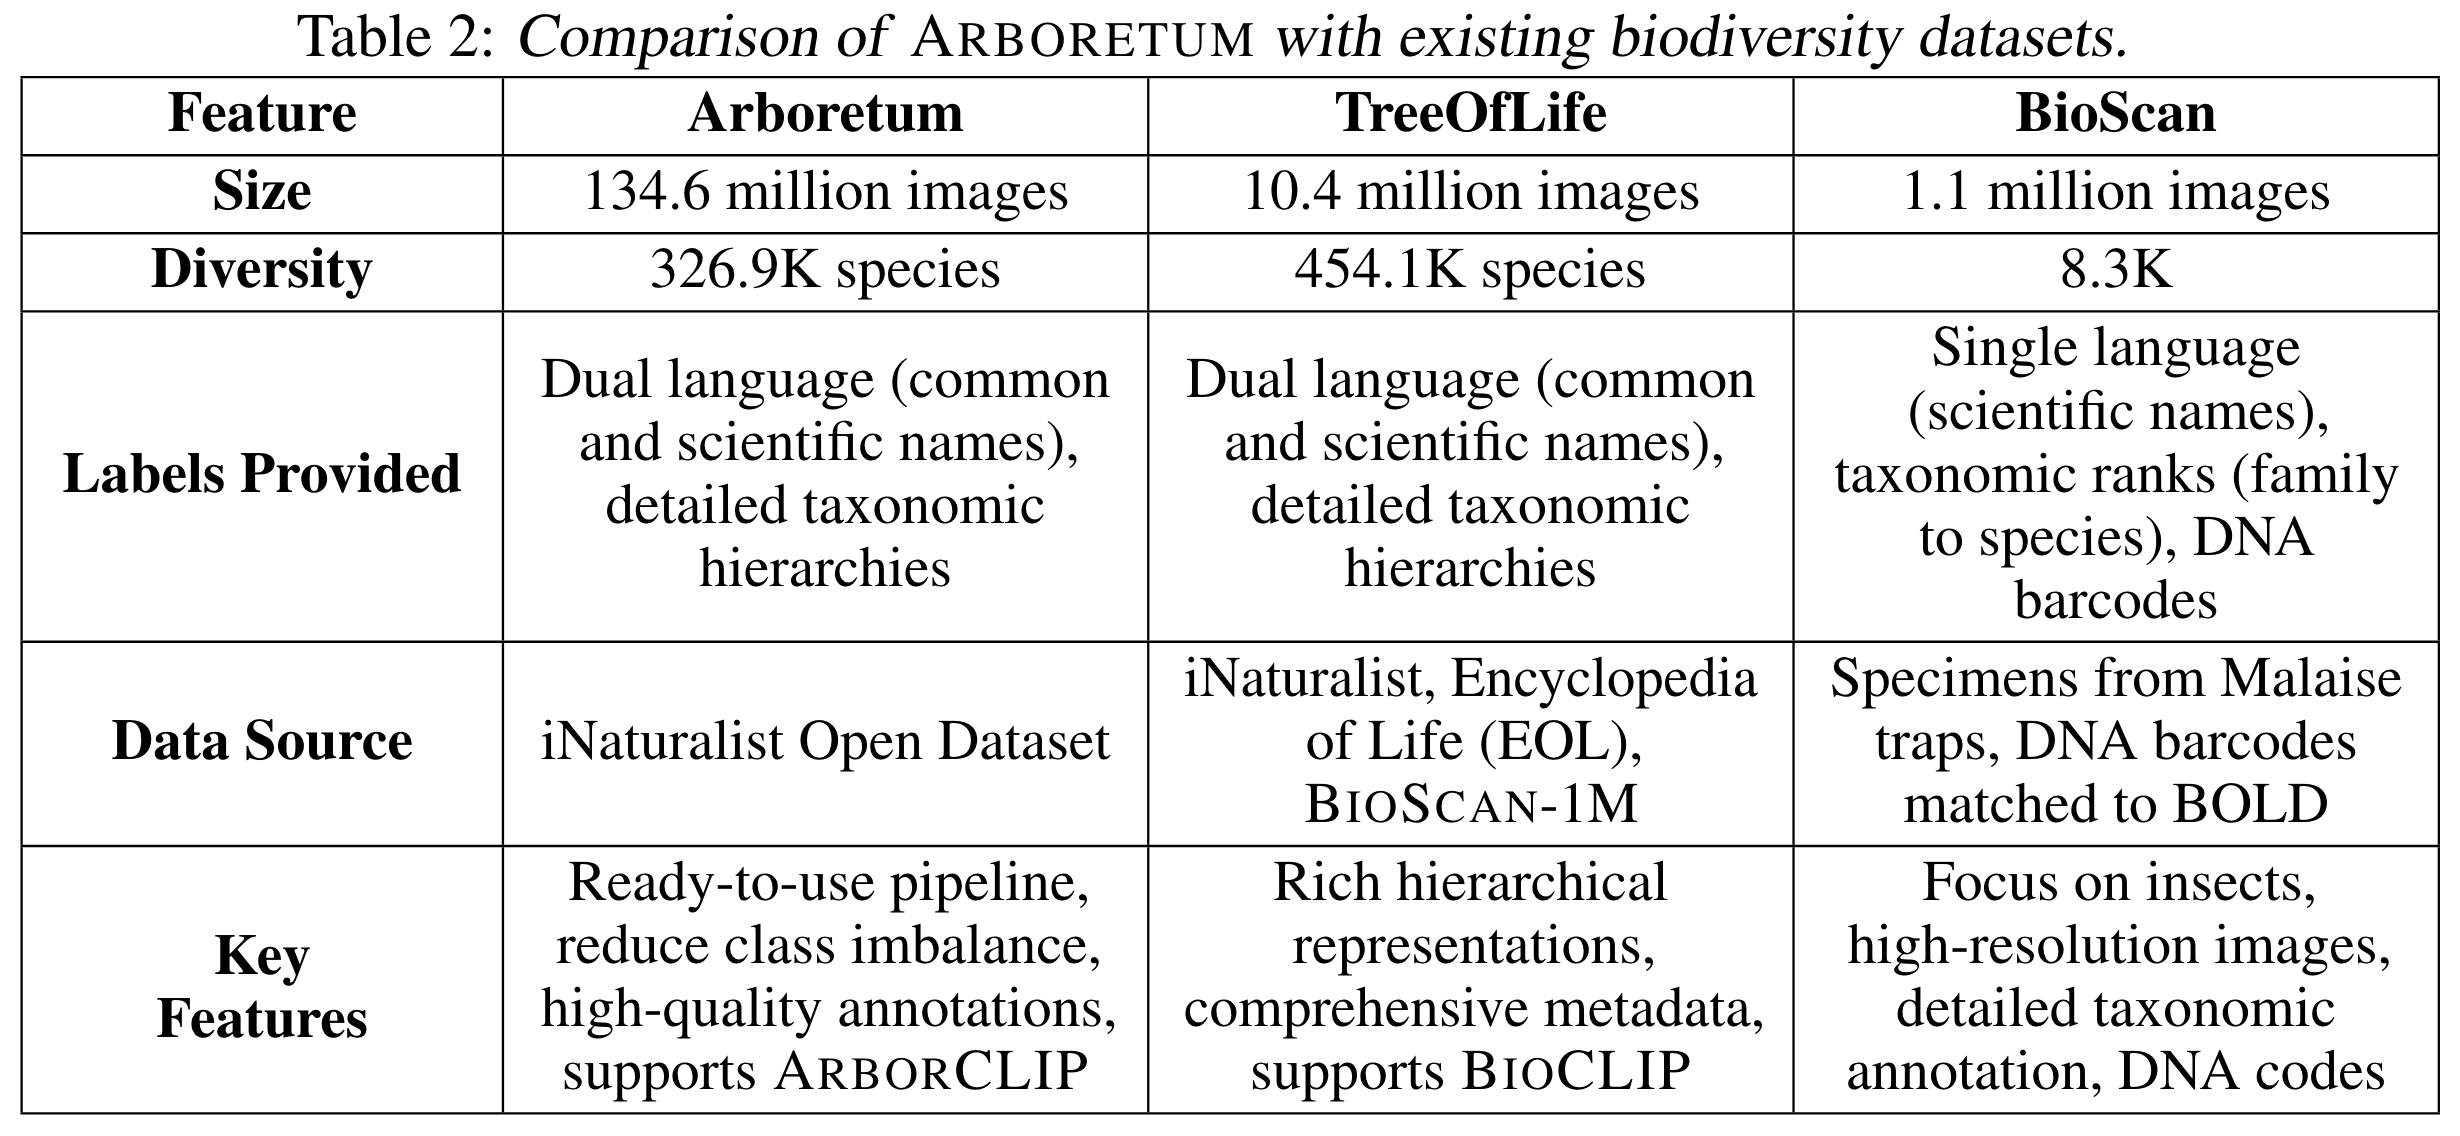
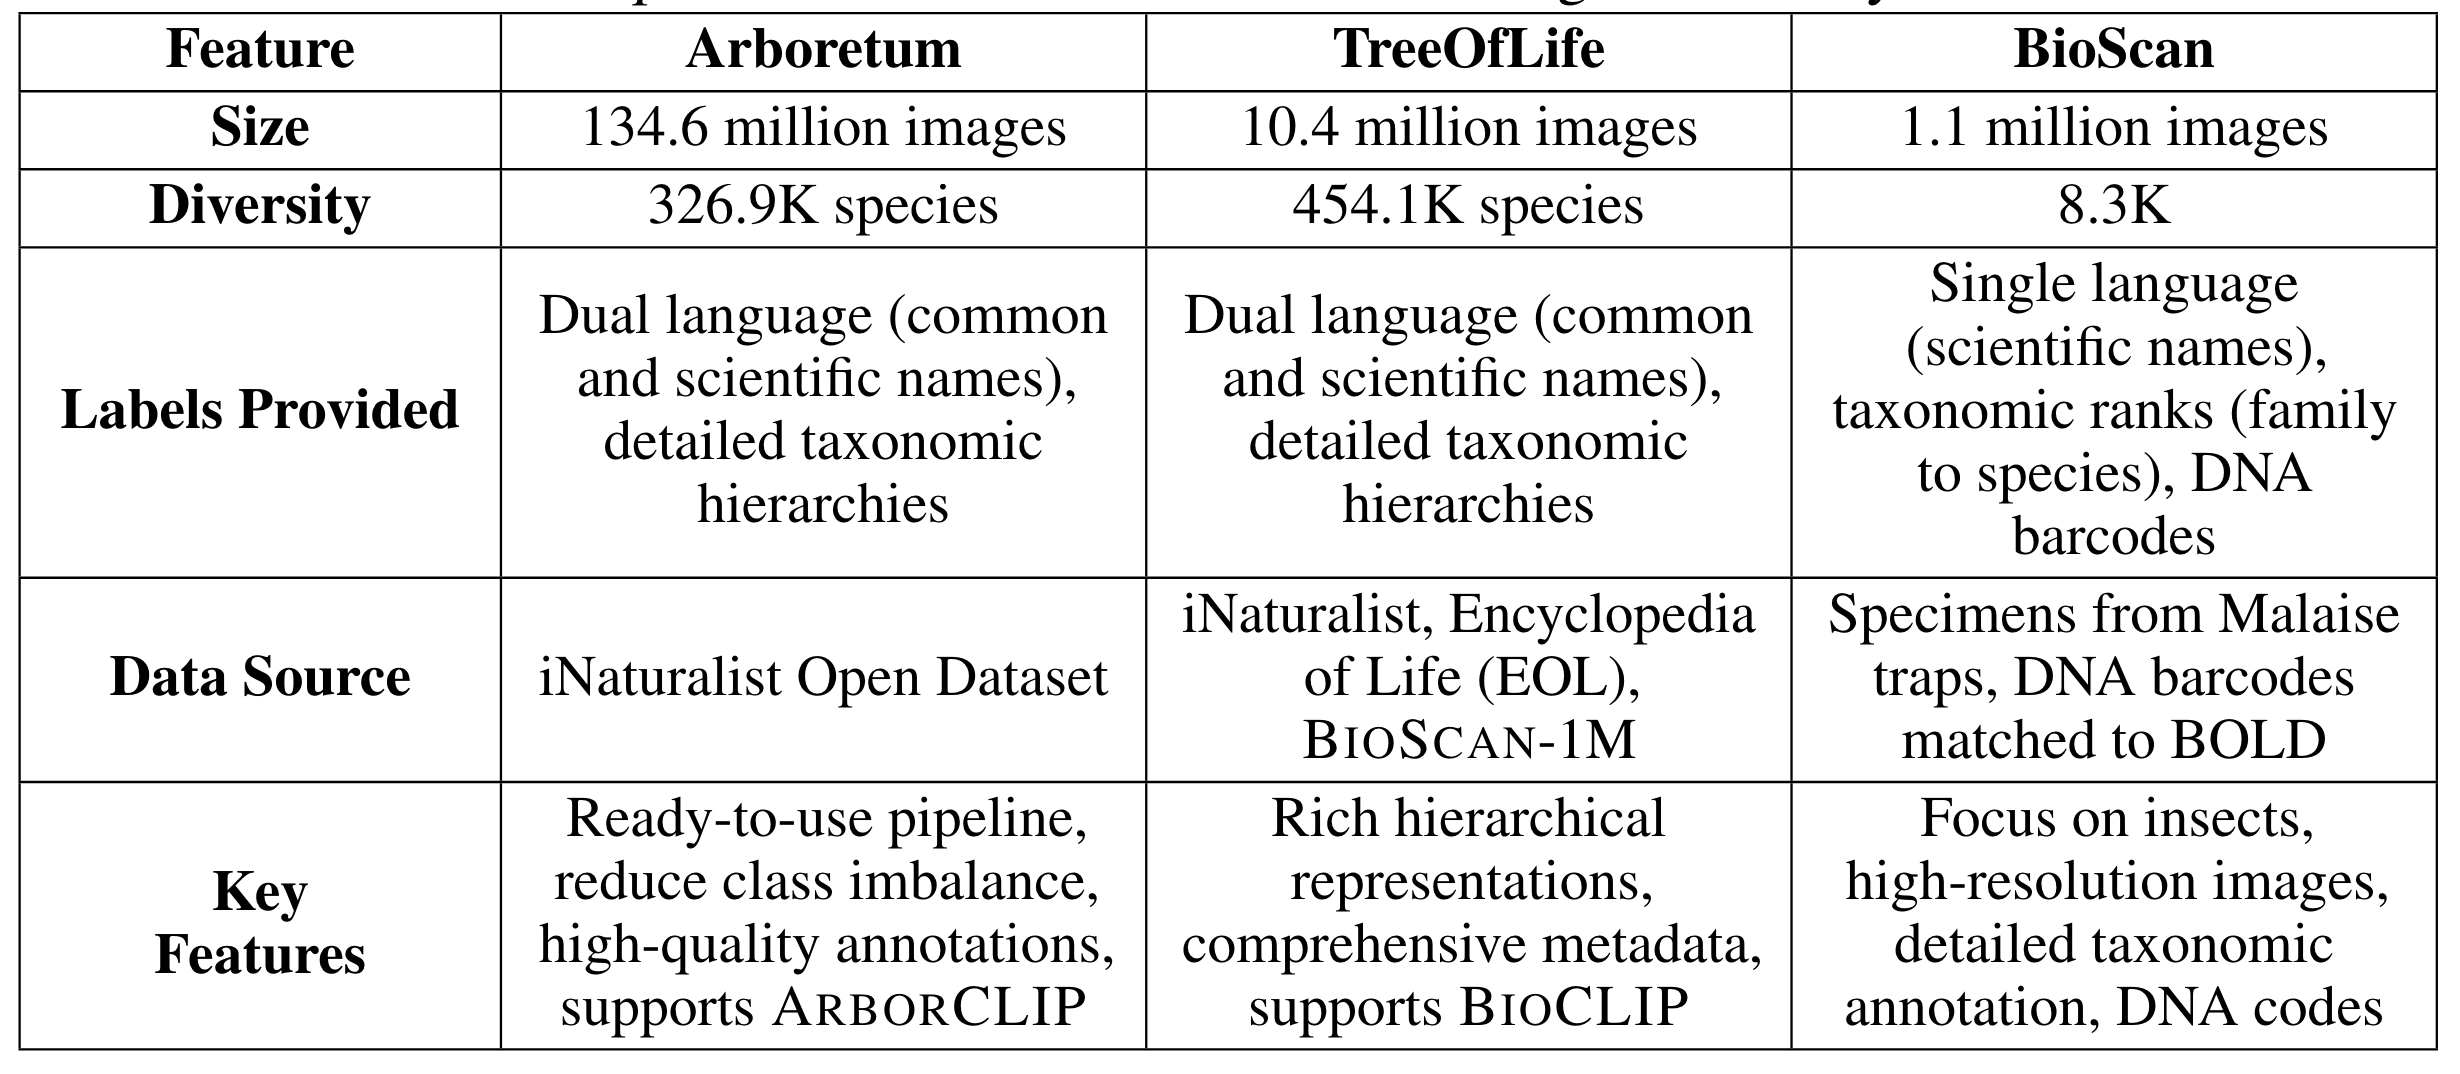
updated html

diff --git a/index.html b/index.html
@@ -337,7 +337,7 @@
           
           <!-- First Image -->
           <div class="publication-image" id="image-container-1">
-            <img src="static/images/category_distribution.png" alt="Category Distribution" style="cursor: pointer; width: 100%;">
+            <img src="static/images/category_distribution.png" alt="Category Distribution" style="cursor: pointer; width: 80%; height: auto;">
           </div>
           <p class="description">
             Distribution of the Arboretum dataset. (a) Size of each taxonomic class in the Arboretum dataset. 
@@ -346,7 +346,7 @@
           
           <!-- Second Image -->
           <div class="publication-image" id="image-container-2">
-            <img src="static/images/treemap_134M_v1.png" alt="Sample Image 2" style="cursor: pointer; width: 100%;">
+            <img src="static/images/treemap_134M_v1.png" alt="Sample Image 2" style="cursor: pointer; width: 80%; height: auto;">
           </div>
           <p class="description">
             Treemap diagram of the Arboretum Dataset, starting from Kingdom. The nested boxes represent phyla, 
@@ -355,7 +355,7 @@
           
           <!-- Third Image -->
           <div class="publication-image" id="image-container-3">
-            <img src="static/images/comparison.png" alt="Sample Image 3" style="cursor: pointer; width: 100%;">
+            <img src="static/images/comparison.png" alt="Sample Image 3" style="cursor: pointer; width: 80%; height: auto;">
           </div>
           <p class="description">
             Comparison of Arboretum Dataset with existing biodiversity datasets.
